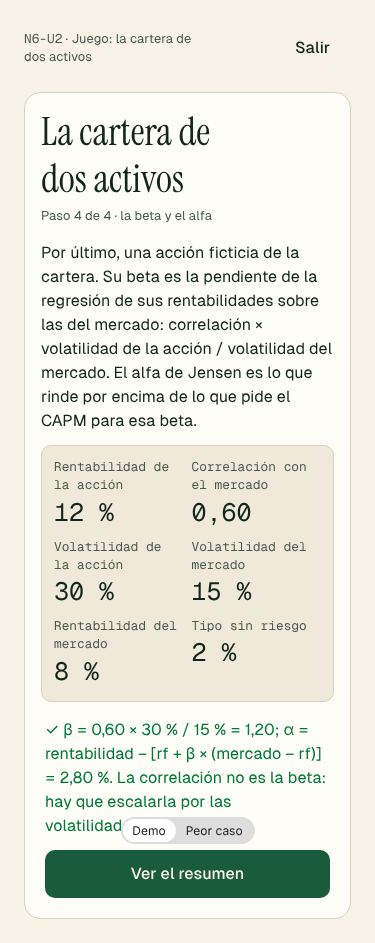
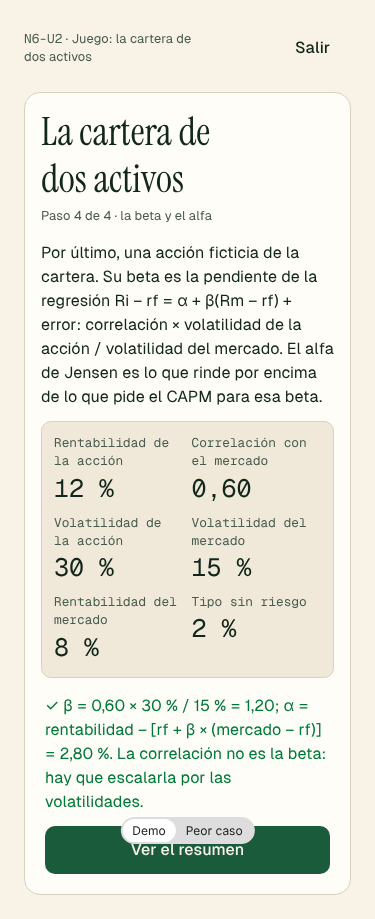
content: n6-u2 ronda 1 de revisión (draft)
Regresión en excesos sobre el tipo sin riesgo; salto con la volatilidad irreducible en la
primera fase y ρ = −1 en la segunda; l3-e5 con la rentabilidad de la mínima varianza; l4-e5
con la pendiente de la línea; l6-e2 con 24 % y 10 %; textos de l1, l3 y l5.

Claude-Session: https://claude.ai/code/session_01MmSrs1YdgLJhPMsRgWQM9q

diff --git a/src/engine/games/two-assets.ts b/src/engine/games/two-assets.ts
@@ -9,7 +9,7 @@ import { mulberry32 } from '../prng';
  *      peso por volatilidad inversa, σB / (σA + σB).
  *   3. Línea del mercado de capitales: rentabilidad esperada para una volatilidad σ* combinando la cartera tangente
  *      con el activo sin riesgo: rf + (Rt − rf) / σt × σ*. Distractores: sin el tipo sin riesgo y con el cociente al revés.
- *   4. Alfa de Jensen: β = ρ × σi / σm (la pendiente de la regresión) y α = R − [rf + β(Rm − rf)]. Distractores: usar
+ *   4. Alfa de Jensen: β = ρ × σi / σm (la pendiente de la regresión Ri − rf = α + β(Rm − rf) + error) y α = R − [rf + β(Rm − rf)]. Distractores: usar
  *      ρ como si fuera la beta y comparar sin más con el mercado (R − Rm).
  * Cifras ficticias, en % con números enteros salvo la correlación.
  */

diff --git a/docs/specs/cartera-dos-activos-n6.md b/docs/specs/cartera-dos-activos-n6.md
@@ -7,7 +7,7 @@ Motor: `src/engine/games/two-assets.ts`. Interfaz: `src/features/games/TwoAssets
 - **Paso 1 (volatilidad):** √(w²σA² + (1 − w)²σB² + 2w(1 − w)ρσAσB). Semilla 0: 60 % en A, σA 20 %, σB 8 %, ρ 0,2: 13,02 %. Distractores: 15,20 % (media ponderada, ρ = 1) y 12,42 % (sin covarianza, ρ = 0).
 - **Paso 2 (mínima varianza):** peso en A = (σB² − ρσAσB) / (σA² + σB² − 2ρσAσB): 8,0 %. Distractores: 50,0 % y 28,6 % (volatilidad inversa).
 - **Paso 3 (línea del mercado de capitales):** rf + (Rt − rf) / σt × σ*: 2 + 5 / 12 × 9 = 5,75 %. Distractores: 5,25 % (sin rf) y 8,67 % (cociente al revés). Hay semillas con una volatilidad objetivo del 20 %, por encima de la tangente, que exigen pedir prestado.
-- **Paso 4 (alfa de Jensen):** β = ρ × σi / σm = 0,6 × 30 / 15 = 1,2; α = 12 − (2 + 1,2 × 6) = 2,80 %. Distractores: 6,40 % (usando ρ como beta) y 4,00 % (R − Rm).
+- **Paso 4 (alfa de Jensen):** β es la pendiente de la regresión en excesos, Ri − rf = α + β(Rm − rf) + error: β = ρ × σi / σm = 0,6 × 30 / 15 = 1,2; α = 12 − (2 + 1,2 × 6) = 2,80 %. Distractores: 6,40 % (usando ρ como beta) y 4,00 % (R − Rm).
 - La semilla sortea volatilidades, correlaciones, pesos y rentabilidades, y repite el sorteo hasta que las opciones de cada paso se distinguen, el alfa no es cero y la mínima varianza tiene un peso entre 0 y 100 % (comprobado en 10.000 semillas). Un test comprueba que la mínima varianza tiene menos volatilidad que sus vecinas y que el activo menos volátil.
 - Nota: un cuarto por paso.
 - Cifras para la lección (`twoValues`): `s_a`, `s_b`, `rho`, `w_a`, `port_vol`, `avg_vol`, `min_var_w`, `rf`, `rt`, `st`, `target`, `cml`, `ri`, `rho_m`, `si`, `sm`, `rm`, `beta`, `alpha` y `hits`.
